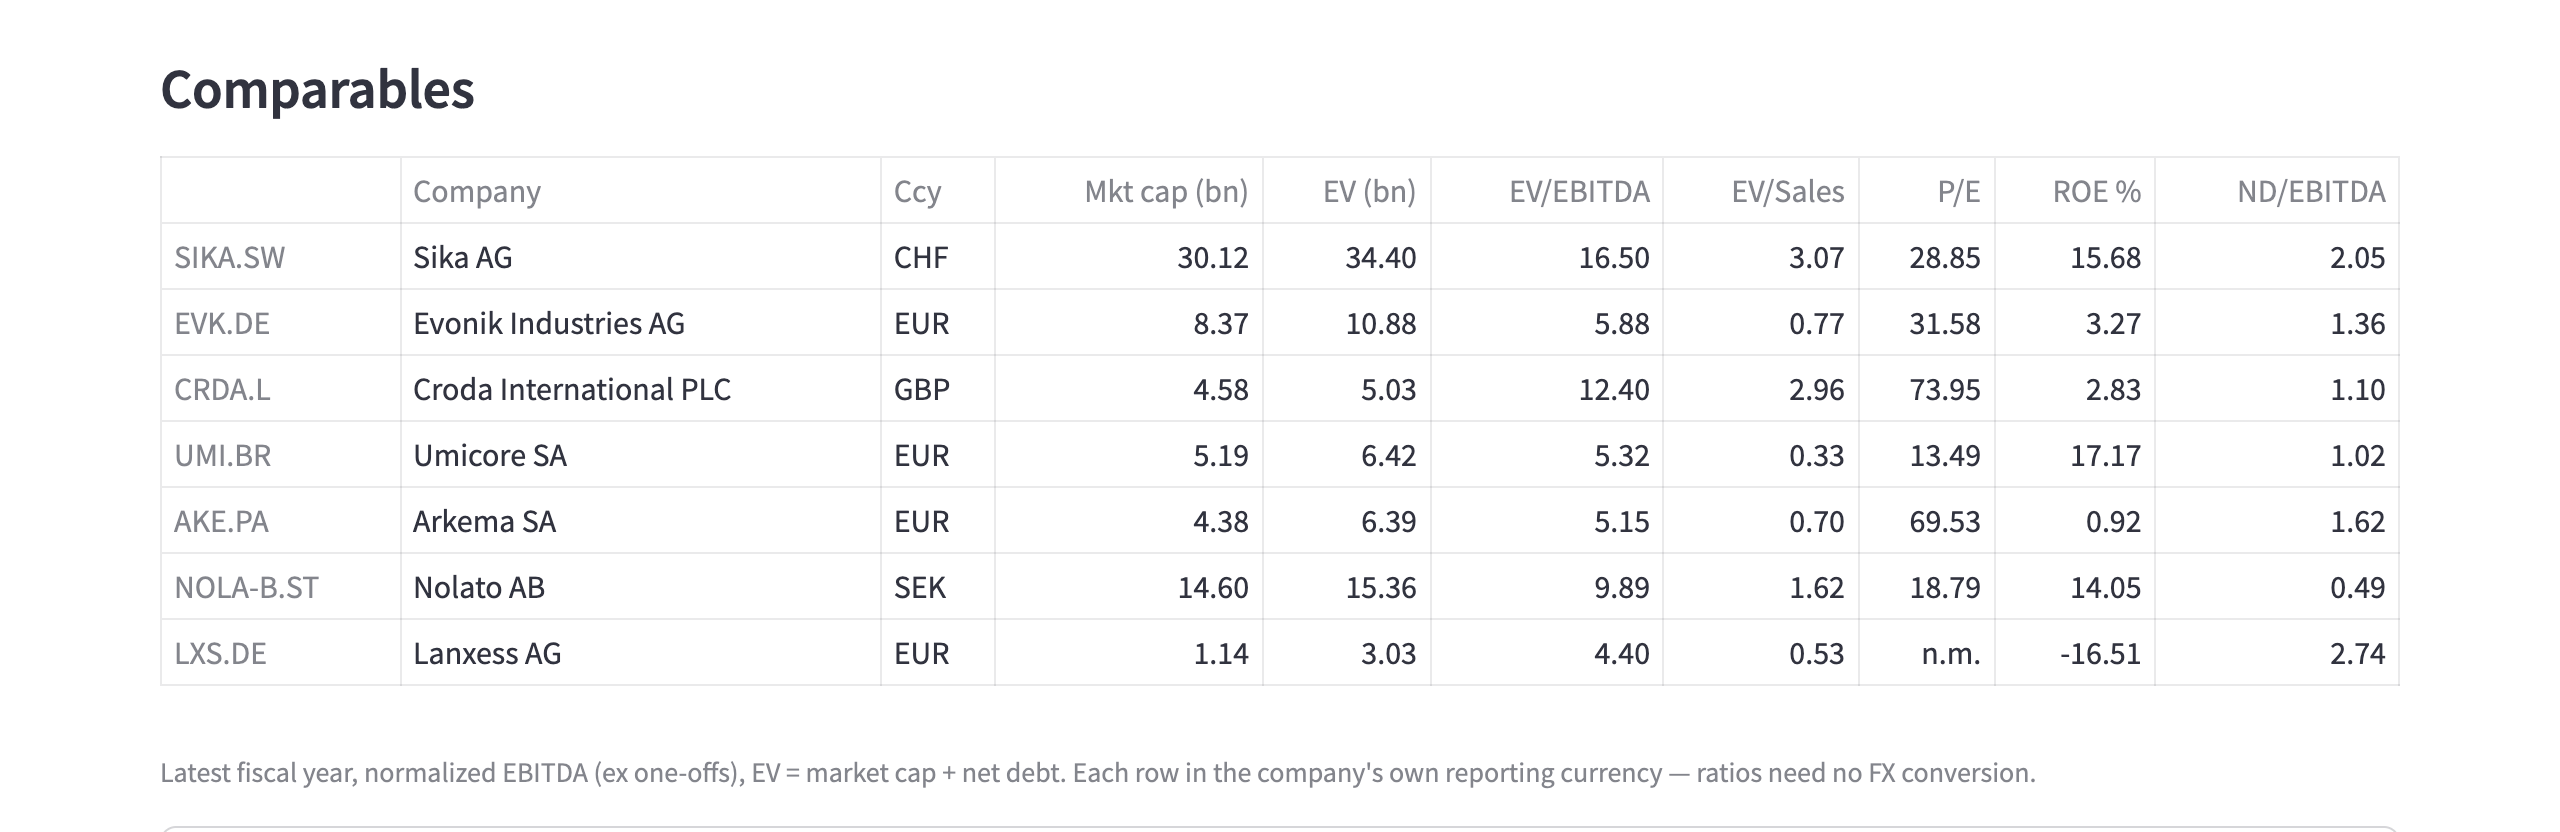
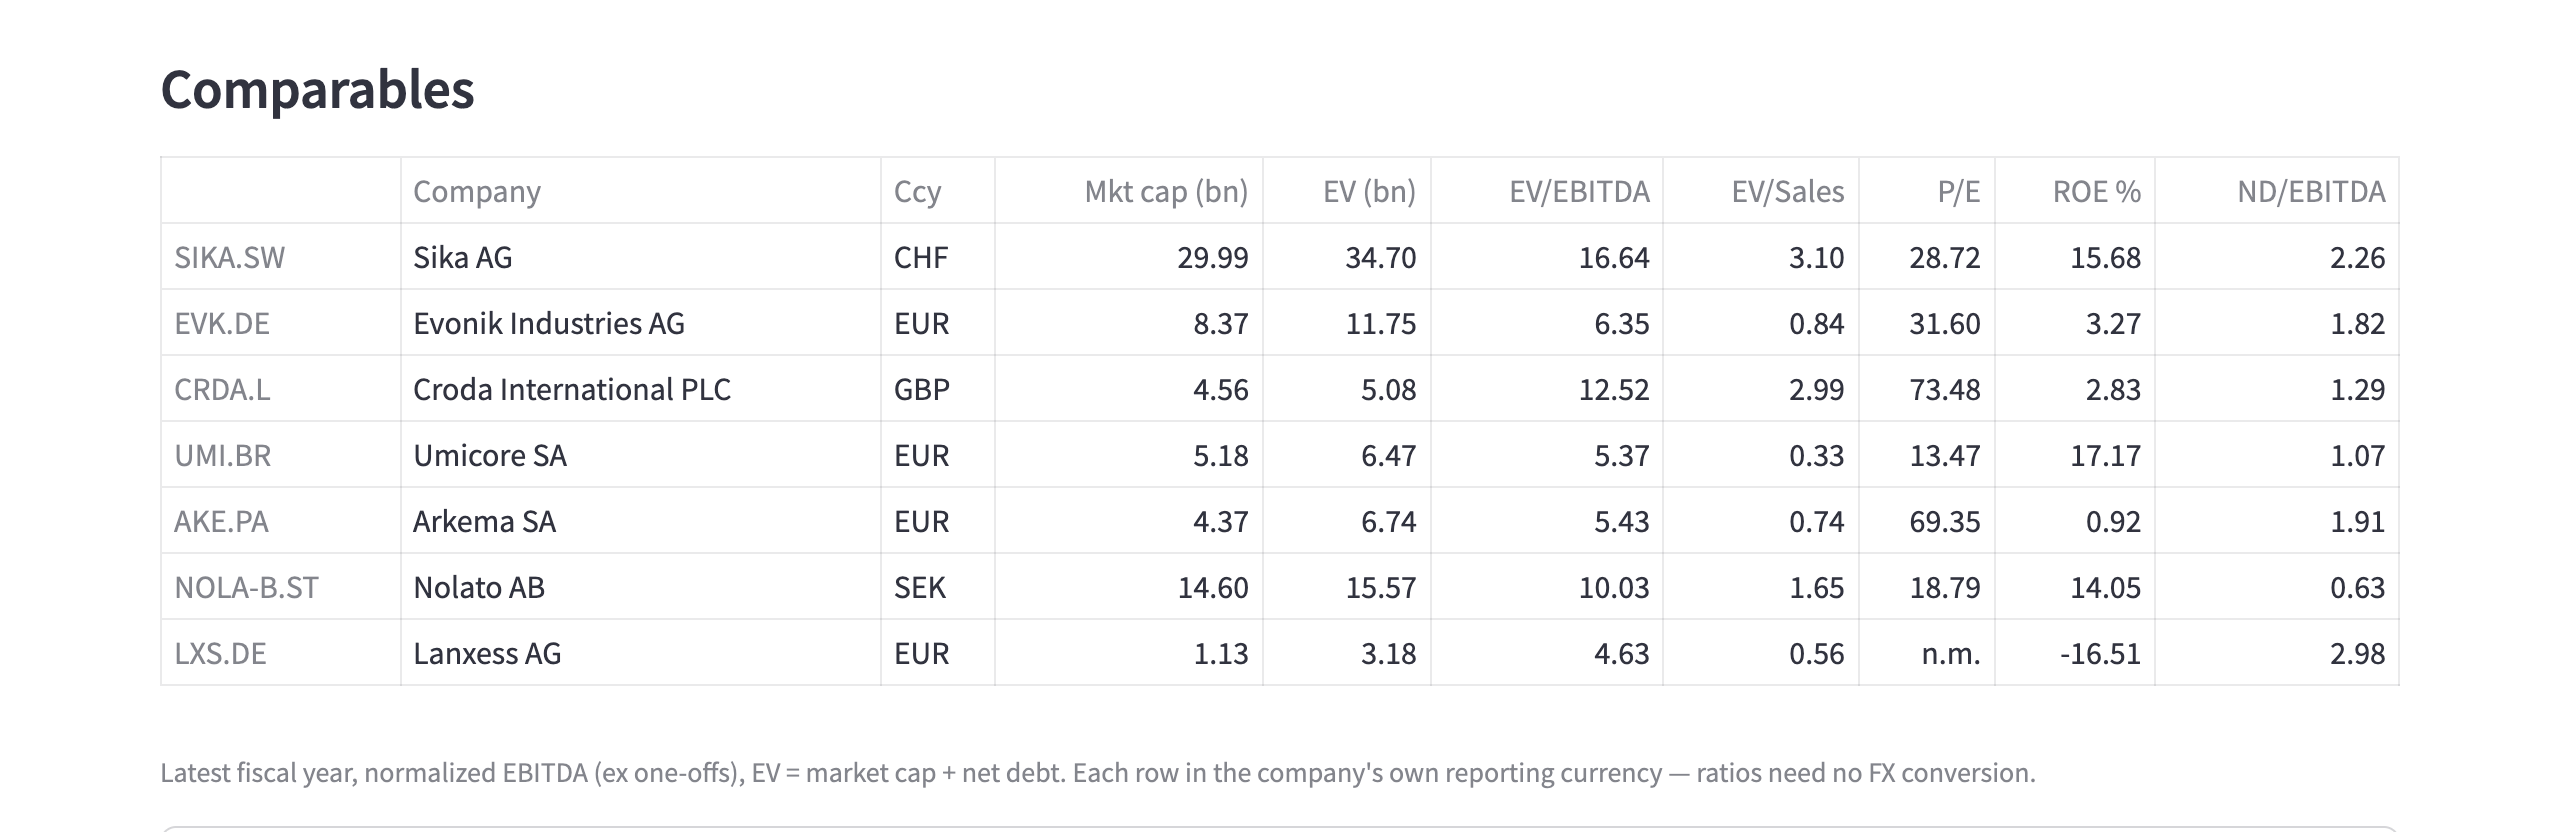
Include lease liabilities in net debt; add annual-report verification
Manual check against the Sika Annual Report 2025 found Yahoo's "Net Debt"
line (CHF 4,278m) excludes IFRS 16 leases, while the report shows 4,734.5m.
Since EBITDA is post-IFRS 16, EV must include leases to be consistent.
Net debt is now total debt (incl. leases) - cash: 4,716.2m (within 0.4%);
ND/EBITDA 2.26x vs 2.3x reported. Sika DCF moves 128.8 -> 126.1 CHF.

README gains the verification table and a lease note; case study numbers
and screenshots regenerated. Also includes the author's README and
ATTRIBUTION wording edits.

diff --git a/src/tools/financials.py b/src/tools/financials.py
@@ -122,14 +122,15 @@ def get_financials(ticker: str, force_refresh: bool = False) -> pd.DataFrame:
     df.index.name = "fiscal_year_end"
     df = df.sort_index()
 
-    # Some issuers have no "Net Debt" line (or it's NaN in the latest year)
-    # in yfinance's balance sheet — fall back to total_debt - cash.
     # "ebitda" is Normalized EBITDA (ex one-offs such as impairments); fall
     # back to reported where yfinance has no normalized figure.
     df["ebitda"] = df["ebitda"].fillna(df["ebitda_reported"])
 
-    fallback_net_debt = df["total_debt"] - df["cash"]
-    df["net_debt"] = df["net_debt"].fillna(fallback_net_debt)
+    # Yahoo's "Net Debt" line excludes IFRS 16 lease liabilities, but EBITDA is
+    # post-IFRS 16 (lease cost excluded), so EV must include leases to be
+    # consistent. Total Debt includes leases; Yahoo's line is only a fallback.
+    # Checked vs Sika AR 2025: 4,716 here vs 4,734.5 reported (Yahoo line: 4,278).
+    df["net_debt"] = (df["total_debt"] - df["cash"]).fillna(df["net_debt"])
 
     # yfinance's free annual statements only cover ~4 fiscal years; older
     # columns come back as an all-NaN placeholder row. Drop them rather than

diff --git a/README.md b/README.md
@@ -8,7 +8,7 @@ Enter a European Industrials/Materials ticker and the tool builds a peer set fro
 
 ## Why I built it
 
-As a Swiss finalist in the CFA Research Challenge (Industrials/Materials), I saw how much of an initiation report's time goes into pulling statements, normalising currencies and rebuilding the same comp table, rather than into the thesis itself. This project takes that workflow — financials → peer set → multiples → DCF → football field — and turns it into a reproducible pipeline, so every number can be traced back to its source and its assumptions.
+As a Swiss finalist in the CFA Research Challenge 2025 (Industrials/Materials), I saw how much of an initiation report's time goes into pulling statements, normalising currencies and rebuilding the same comp table, rather than into the thesis itself. This project takes that workflow — financials → peer set → multiples → DCF → football field — and turns it into a reproducible pipeline, so every number can be traced back to its source and its assumptions.
 
 ## Architecture
 
@@ -45,17 +45,29 @@ These are scope decisions, not missing features:
 **Hand-curated universe instead of automated screening.** Yahoo's industry labels for European mid-caps are unreliable, so peers come from a 33-name CSV tagged by hand with sector, sub-sector and peer group. Peers from the target's own peer group rank first, then candidates from the wider sector fill any remaining slots; within each tier, peers are ranked by market-cap proximity and must fall in the €1–10bn band. An early version matched on sector alone and gave Sika (construction chemicals) a steel producer, a copper smelter and a cement maker as peers — technically "Materials", analytically useless. The peer-group tag fixed that.
 
 **Currency handling — ratios never mix currencies.** Multiples are computed in each company's own statement currency, where currency cancels out; EUR conversion is used only to screen peers against the €1–10bn band. Two traps were found and fixed:
-- *Quote currency ≠ reporting currency.* Rockwool is quoted in DKK but reports in EUR. Dividing a DKK market cap by EUR EBITDA produced a 78.8× EV/EBITDA. Market cap is now converted into the statement currency (`financialCurrency`) before computing EV; Rockwool's multiple is 10.7× reported / 5.9× normalized.
+- *Quote currency ≠ reporting currency.* Rockwool is quoted in DKK but reports in EUR. Dividing a DKK market cap by EUR EBITDA produced a 78.8× EV/EBITDA. Market cap is now converted into the statement currency (`financialCurrency`) before computing EV; Rockwool's multiple is 10.8× reported / 5.9× normalized.
 - *Pence.* LSE stocks are quoted in GBp while market cap is in GBP; implied per-share values are converted back to pence for UK names.
 
-**Normalized EBITDA.** Reported EBITDA for several names was distorted by one-offs such as impairments: normalized was +82% for Rockwool, +70% for Lanxess and +58% for Croda. On reported numbers, Croda looked like a 19.7× "premium" name; normalized it is 12.4×. All multiples and the DCF margin use normalized EBITDA, falling back to reported where it is missing.
+**Normalized EBITDA.** Reported EBITDA for several names was distorted by one-offs such as impairments: normalized was +82% for Rockwool, +70% for Lanxess and +58% for Croda. On reported numbers, Croda looked like a 19.8× "premium" name; normalized it is 12.5×. All multiples and the DCF margin use normalized EBITDA, falling back to reported where it is missing.
+
+**Net debt includes lease liabilities.** Yahoo's "Net Debt" line leaves out IFRS 16 lease liabilities, but IFRS 16 EBITDA already excludes lease costs. Using Yahoo's line would therefore understate every company's EV relative to its EBITDA. The tool computes net debt as total debt (including leases) minus cash. This issue came to light during manual verification (below).
 
 **Other data guards.**
 - Peer multiples above 3× the peer median are excluded from the football-field range.
 - Implied equity values are floored at zero (limited liability).
 - Peers with incomplete statements are skipped rather than patched; for example, Fuchs has no debt data for its latest year, so the next eligible peer is used instead.
-- Net debt falls back to total debt − cash where Yahoo has no net-debt line.
 - `yfinance` returns only ~4 fiscal years of annual data, not 5. Empty years are dropped, not filled.
+
+**Manual verification against the annual report.** I checked the tool's FY2025 figures for Sika against the Sika Annual Report 2025:
+
+| Item (CHF m) | Tool | Annual report | Result |
+|---|---:|---:|---|
+| Net sales | 11,201.3 | 11,201.3 | Exact match |
+| Net profit | 1,044.0 | 1,045.3 | Definitional: the tool uses profit attributable to shareholders (the correct P/E numerator); the report figure includes CHF 1.3m of minority interests |
+| Net debt | 4,716.2 | 4,734.5 | Within 0.4%, after the fix; before it, Yahoo's figure was 4,278.0 (−10%), because it excluded leases |
+| Net debt / EBITDA | 2.26× | 2.3× | Consistent |
+
+The net-debt check is what exposed the lease issue described above.
 
 **Testing.** Smoke-tested end to end, both locally and on the deployed app from a logged-out browser. The tests cover SIKA.SW (CHF), WEIR.L (GBp) and ROCK-B.CO (DKK quote / EUR statements), each chosen to exercise a different currency case.
 

diff --git a/case_studies/sika_initiation.md b/case_studies/sika_initiation.md
@@ -1,6 +1,6 @@
 # Case study: Sika AG (SIKA.SW)
 
-An end-to-end run of the tool on one company, from raw statements to a football field. All figures are the tool's own output as of **23 September 2026** (share price CHF 187.45; FX snapshot the same day). Prices move, so a fresh run will differ slightly.
+An end-to-end run of the tool on one company, from raw statements to a football field. All figures are the tool's own output as of **23 September 2026** (share price CHF 187.15; FX snapshot the same day). Prices move, so a fresh run will differ slightly.
 
 This is a walkthrough of the method, not a recommendation.
 
@@ -14,12 +14,12 @@ The tool reads four fiscal years from Yahoo Finance; `yfinance` provides no fift
 
 | FY (Dec) | Revenue | EBITDA (normalized) | EBITDA (reported) | Net income | Net debt |
 |---|---:|---:|---:|---:|---:|
-| 2022 | 10,492 | 1,942 | 1,942 | 1,162 | 1,687 |
-| 2023 | 11,239 | 2,008 | 1,998 | 1,062 | 4,795 |
-| 2024 | 11,763 | 2,304 | 2,304 | 1,246 | 4,593 |
-| 2025 | 11,201 | 2,085 | 2,055 | 1,044 | 4,278 |
+| 2022 | 10,492 | 1,942 | 1,942 | 1,162 | 2,022 |
+| 2023 | 11,239 | 2,008 | 1,998 | 1,062 | 5,194 |
+| 2024 | 11,763 | 2,304 | 2,304 | 1,246 | 5,016 |
+| 2025 | 11,201 | 2,085 | 2,055 | 1,044 | 4,716 |
 
-The 2023 step-up in net debt reflects the debt-financed acquisition of MBCC Group. Revenue fell 4.8% in CHF in 2025. The revenue CAGR across the available window is 2.2%, and it drives year 1 of the DCF. For Sika, normalized and reported EBITDA are almost identical. That is not true for its peers.
+Net debt is total debt including IFRS 16 lease liabilities, minus cash. For FY2025, it is CHF 4,716m against CHF 4,734.5m in Sika's annual report. The 2023 step-up in net debt reflects the debt-financed acquisition of MBCC Group. Revenue fell 4.8% in CHF in 2025. The revenue CAGR across the available window is 2.2%, and it drives year 1 of the DCF. For Sika, normalized and reported EBITDA are almost identical. That is not true for its peers.
 
 ## 3. Building the peer set
 
@@ -42,10 +42,10 @@ Latest fiscal year, normalized EBITDA, EV = market cap + net debt. Each company 
 
 | | EV/EBITDA | EV/Sales | P/E | ROE | ND/EBITDA |
 |---|---:|---:|---:|---:|---:|
-| **Sika** | **16.5×** | **3.07×** | **28.8×** | **15.7%** | **2.05×** |
-| Peer median | 5.6× | 0.74× | — | — | — |
+| **Sika** | **16.7×** | **3.10×** | **28.8×** | **15.7%** | **2.26×** |
+| Peer median | 5.9× | 0.79× | — | — | — |
 
-Sika trades at about 3× the peer median on EV/EBITDA. Several peers are at cyclical lows: Lanxess has negative earnings (P/E shown as n.m.), and Arkema's P/E of ~70× reflects depressed earnings rather than a high valuation. Croda's reported EBITDA understated normalized EBITDA by 58%. Without normalization, it would have looked like a 19.7× "premium" peer instead of 12.4×.
+Sika trades at nearly 3× the peer median on EV/EBITDA. Several peers are at cyclical lows: Lanxess has negative earnings (P/E shown as n.m.), and Arkema's P/E of ~70× reflects depressed earnings rather than a high valuation. Croda's reported EBITDA understated normalized EBITDA by 58%. Without normalization, it would have looked like a 19.8× "premium" peer instead of 12.5×.
 
 ## 5. DCF
 
@@ -63,14 +63,14 @@ Unlevered FCF runs from CHF 1.37bn in year 1 to CHF 1.49bn in year 5.
 | Bridge | CHF |
 |---|---:|
 | Enterprise value | 24.95bn |
-| – Net debt (FY2025) | 4.28bn |
-| = Equity value | 20.67bn |
+| – Net debt (FY2025, incl. leases) | 4.72bn |
+| = Equity value | 20.23bn |
 | ÷ Shares outstanding | 160.4m |
-| **= Implied value per share** | **128.8** |
+| **= Implied value per share** | **126.1** |
 
 ![DCF sensitivity and assumptions](../docs/screenshots/03_dcf.png)
 
-In the sensitivity grid, the current price (CHF 187) is only reached around **6.5% WACC with 2.5% terminal growth** (185.1). Read in reverse, the market is either discounting Sika at a lower cost of capital than a generic Materials name, or expecting growth well above the 2.2% historical CAGR. Both are plausible for a business with Sika's pricing power and track record, and deciding between them is the analyst's call.
+In the sensitivity grid, the current price (CHF 187) is only reached in the low-WACC, high-growth corner: **6.5% WACC with 2.5–3.0% terminal growth** (CHF 182–210). Read in reverse, the market is either discounting Sika at a lower cost of capital than a generic Materials name, or expecting growth well above the 2.2% historical CAGR. Both are plausible for a business with Sika's pricing power and track record, and deciding between them is the analyst's call.
 
 ## 6. Football field
 
@@ -78,10 +78,10 @@ In the sensitivity grid, the current price (CHF 187) is only reached around **6.
 
 | Method | Low | Mid | High |
 |---|---:|---:|---:|
-| DCF (WACC 6.5–8.5% × g 1–3%) | 89.5 | 128.8 | 213.0 |
-| EV/EBITDA (peer min / median / max) | 30.5 | 46.3 | 134.3 |
-| EV/Sales (peer min / median / max) | 0.0 | 22.6 | 86.6 |
-| *Current price* | | *187.45* | |
+| DCF (WACC 6.5–8.5% × g 1–3%) | 86.8 | 126.1 | 210.2 |
+| EV/EBITDA (peer min / median / max) | 30.7 | 47.2 | 133.3 |
+| EV/Sales (peer min / median / max) | 0.0 | 22.5 | 85.5 |
+| *Current price* | | *187.15* | |
 
 **How to read it.** The three methods don't converge, and the divergence is the finding:
 

diff --git a/ATTRIBUTION.md b/ATTRIBUTION.md
@@ -22,4 +22,4 @@ No Dexter source code is used in this repository. The two projects are written i
 
 ## Development
 
-The code was written with an AI pair-programmer (Claude Code), and the commits are co-authored accordingly. I made the scope, peer-universe curation, valuation methodology and validation decisions, and reviewed every output.
+The code was written with an AI pair-programmer (Claude Code), and the commits are co-authored accordingly. I made the scope, peer-universe curation, valuation methodology and validation decisions, and reviewed every output manually.
